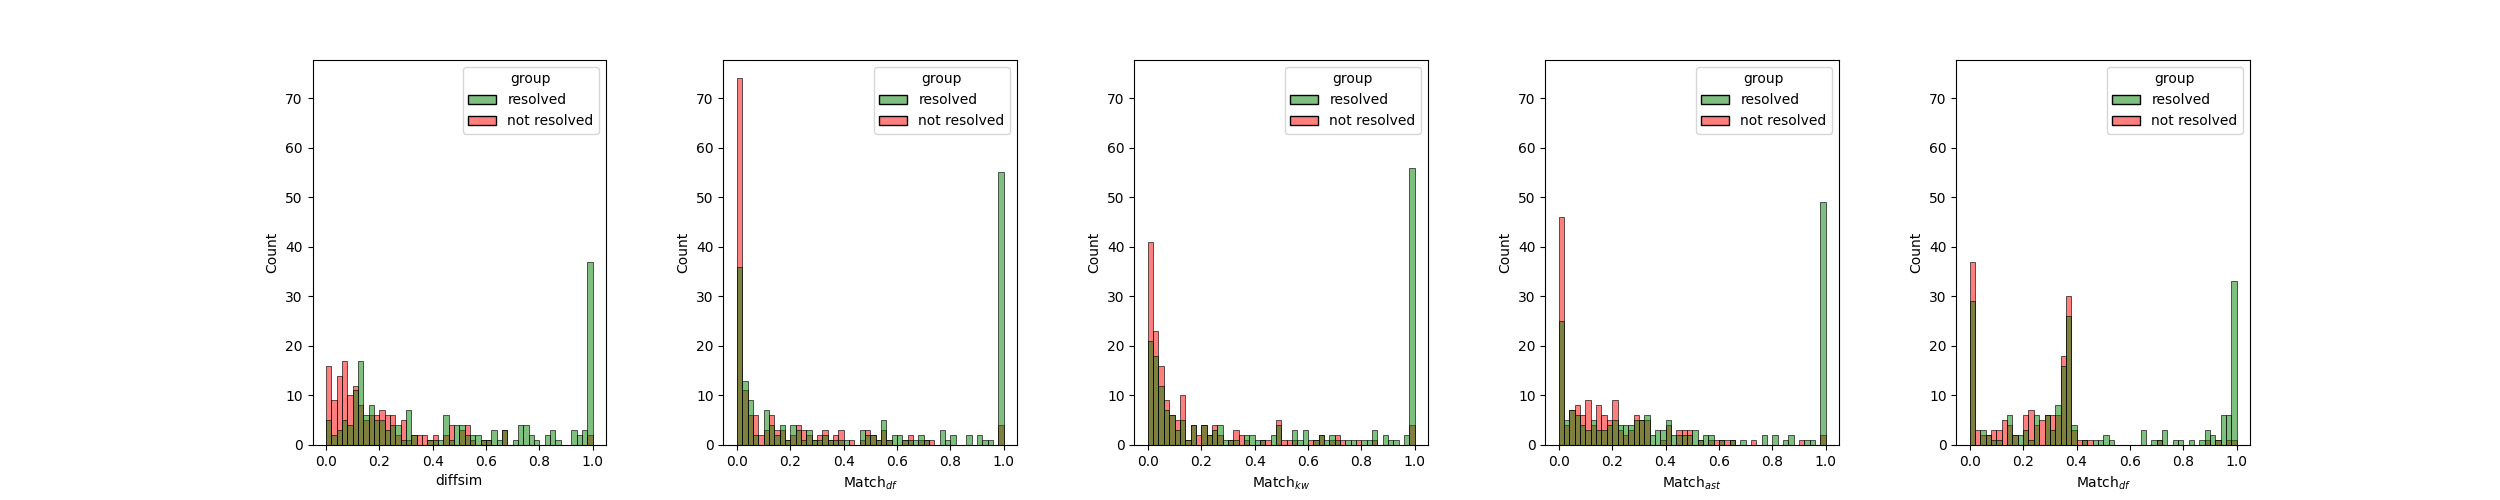
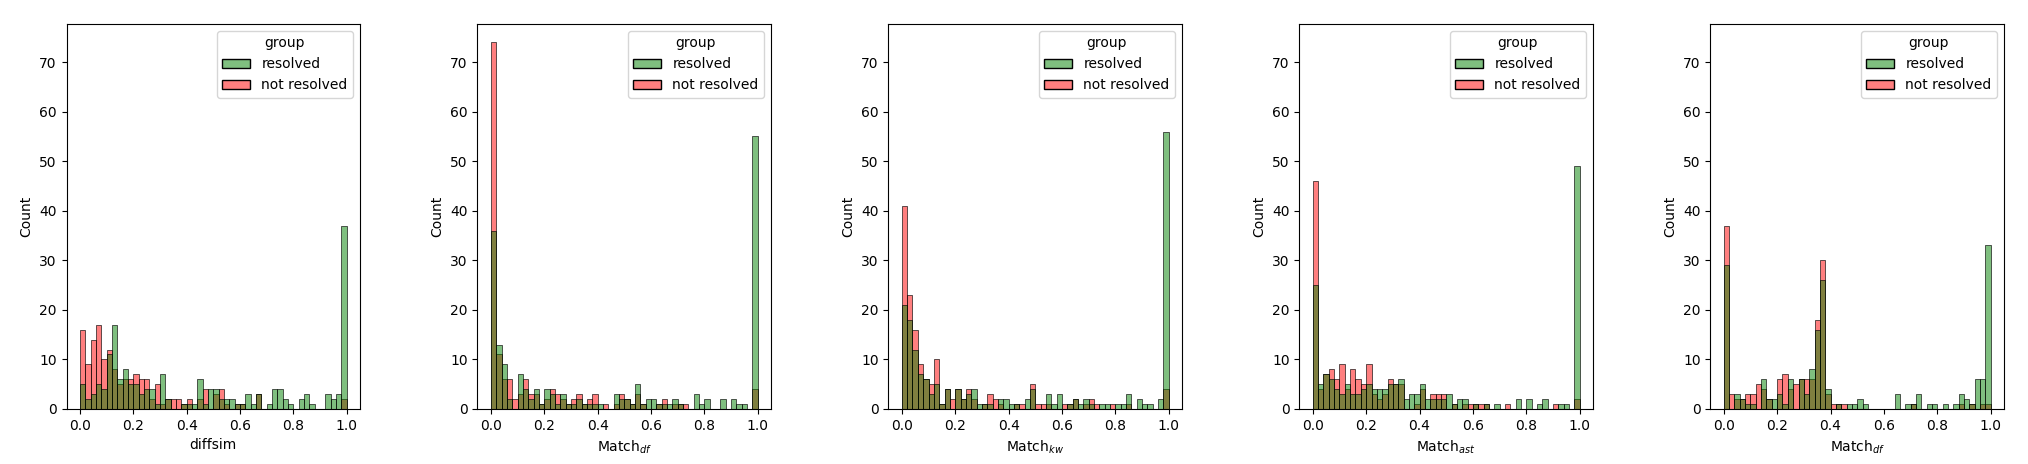
figs, torrents, changes

diff --git a/evaluate.py b/evaluate.py
@@ -377,14 +377,14 @@ def score_instances():
 
 
 def recalc(instance):
-    if instance["instance_id"] in extraref_intermediates:
-        newintermediates = instance["intermediates"]
-        extraintermediates = extraref_intermediates[instance["instance_id"]]
-        for key in newintermediates:
-            for index in range(0, len(newintermediates[key]["r_interms"])):
-                if index < len(extraintermediates[key]["r_interms"]):
-                    newintermediates[key]["r_interms"][index] += extraintermediates[key]["r_interms"][index]
-        instance["diffsim"] = diffsim.calc_diffsim([], [], [], lang="python", penalty=conf["diffsimpenalty"], intermediates=newintermediates, weights=conf["weights"])
+    # if instance["instance_id"] in extraref_intermediates:
+    #     newintermediates = instance["intermediates"]
+    #     extraintermediates = extraref_intermediates[instance["instance_id"]]
+    #     for key in newintermediates:
+    #         for index in range(0, len(newintermediates[key]["r_interms"])):
+    #             if index < len(extraintermediates[key]["r_interms"]):
+    #                 newintermediates[key]["r_interms"][index] += extraintermediates[key]["r_interms"][index]
+    #     instance["diffsim"] = diffsim.calc_diffsim([], [], [], lang="python", penalty=conf["diffsimpenalty"], intermediates=newintermediates, weights=conf["weights"])
     if "unchangedpercentage" not in instance or not instance["unchangedpercentage"]:
         filelen = 0
         patchlen = 0
@@ -420,16 +420,16 @@ conf = {
     "rankingscores_loc": f"./results/rankingscores.txt", 
 }
 
-extraref_intermediates = {}
-with open("data/models/20240820_honeycomb/scored_instances.jsonl") as fp:
-    for line in tqdm.tqdm(fp):
-        inst = json.loads(line)
-        intermediates = inst["intermediates"]
-        for key in intermediates:
-            intermediates[key] = {"r_interms": [[i] for i in intermediates[key]["h_interm"]]}
-        extraref_intermediates[inst["instance_id"]] = intermediates
-        del inst
-pass
+# extraref_intermediates = {}
+# with open("data/models/20240820_honeycomb/scored_instances.jsonl") as fp:
+#     for line in tqdm.tqdm(fp):
+#         inst = json.loads(line)
+#         intermediates = inst["intermediates"]
+#         for key in intermediates:
+#             intermediates[key] = {"r_interms": [[i] for i in intermediates[key]["h_interm"]]}
+#         extraref_intermediates[inst["instance_id"]] = intermediates
+#         del inst
+# pass
 def main():
     conf["instances_dir"] = f"{conf['data_dir']}/instances"
     conf["model_path"] = f"{conf['data_dir']}/models/{conf['model']}"
@@ -500,8 +500,8 @@ def main():
     with open(conf["results_loc"], "r") as fp:
         results = json.load(fp)
         for instance in scored:
-            if instance["instance_id"] not in extraref_intermediates:
-                continue
+            # if instance["instance_id"] not in extraref_intermediates:
+            #     continue
             if instance["instance_id"] in results["resolved"]:
                 resolved.append(instance)
             else:
@@ -590,13 +590,29 @@ def main():
         for p in plots:
             p.set_ylim(top = maxlim, bottom = 0)
         plt.subplots_adjust(hspace = 0.4, wspace = 0.4)
-        fig.savefig(f"{conf['figs_loc']}/{n}_scores.png")
+        fig.savefig(f"{conf['figs_loc']}/{n}_scores.png", bbox_inches='tight')
         plt.close()
+
+    fig, axs = plt.subplots(ncols=3, figsize=(15, 5))
+    plots = []
+    for i, n in enumerate(["codebleu", "codegleu", "diffsim"]):
+        data = [s[n] | {"group": "resolved" if r else "not resolved"} for s, r in zip(toscore, resornot)]
+        p = sns.histplot(x=n, hue="group", data=pd.DataFrame(data), palette={"resolved": "green", "not resolved": "red"}, binwidth=0.02, ax=axs[i])
+        names = {"codebleu": "CodeBLEU", "codegleu": "CodeGLEU", "diffsim": "FRITS"}
+        p.set(xlabel=(names[n] if n in names else n))
+        plots.append(p)
+    maxlim = max([p.get_ylim()[1] for p in plots])
+    for p in plots:
+        p.set_ylim(top = maxlim, bottom = 0)
+    plt.subplots_adjust(hspace = 0.4, wspace = 0.4)
+    fig.savefig(f"{conf['figs_loc']}/all_scores.png", bbox_inches='tight')
+    plt.close()
+
     sns.regplot(x=[i["diffsim"]["diffsim"] for i in toscore], y=resornot)
-    plt.savefig(f"{conf['figs_loc']}/resornot_vs_diffsim.png")
+    plt.savefig(f"{conf['figs_loc']}/resornot_vs_diffsim.png", bbox_inches='tight')
     plt.close()
     sns.regplot(x=[i["unchangedpercentage"] for i in toscore], y=[i["codebleu"]["codebleu"] for i in toscore])
-    plt.savefig(f"{conf['figs_loc']}/codebleu_vs_unchangedpercent.png")
+    plt.savefig(f"{conf['figs_loc']}/codebleu_vs_unchangedpercent.png", bbox_inches='tight')
     plt.close()
     scoregroups = [
         {"name": "bleu", "scores": [i["bleu"]["bleu"] for i in toscore]},
@@ -612,7 +628,7 @@ def main():
     df = pd.DataFrame(scoregroups)
     for n in ["mvr_c", "mvr_p", "mvp_c", "mvp_p"]:
         sns.barplot(x=df["name"], y=df[n])
-        plt.savefig(f"{conf['figs_loc']}/score {n} bars.png")
+        plt.savefig(f"{conf['figs_loc']}/score {n} bars.png", bbox_inches='tight')
         plt.close()
     wandb.finish()
 

diff --git a/torrents/README.md b/torrents/README.md
@@ -6,5 +6,6 @@ All torrents come in encrypted rar files, with a shared password 'FRITS'.
 
 The following torrents are available:
 
-RankingData.rar: Evaluation data for all of the lite entries, alongside figs & results, as well as the script used to calculate the ranking.    
+EvaluationData.rar: Data, scripts, environment and instructions required to run evaluation experiment.    
+RankingData.rar: Data, scripts, environment and instructions required to run ranking experiment.    
 MultirefData.rar: Data, scripts, environment and instructions required to run multi-ref experiment.    
